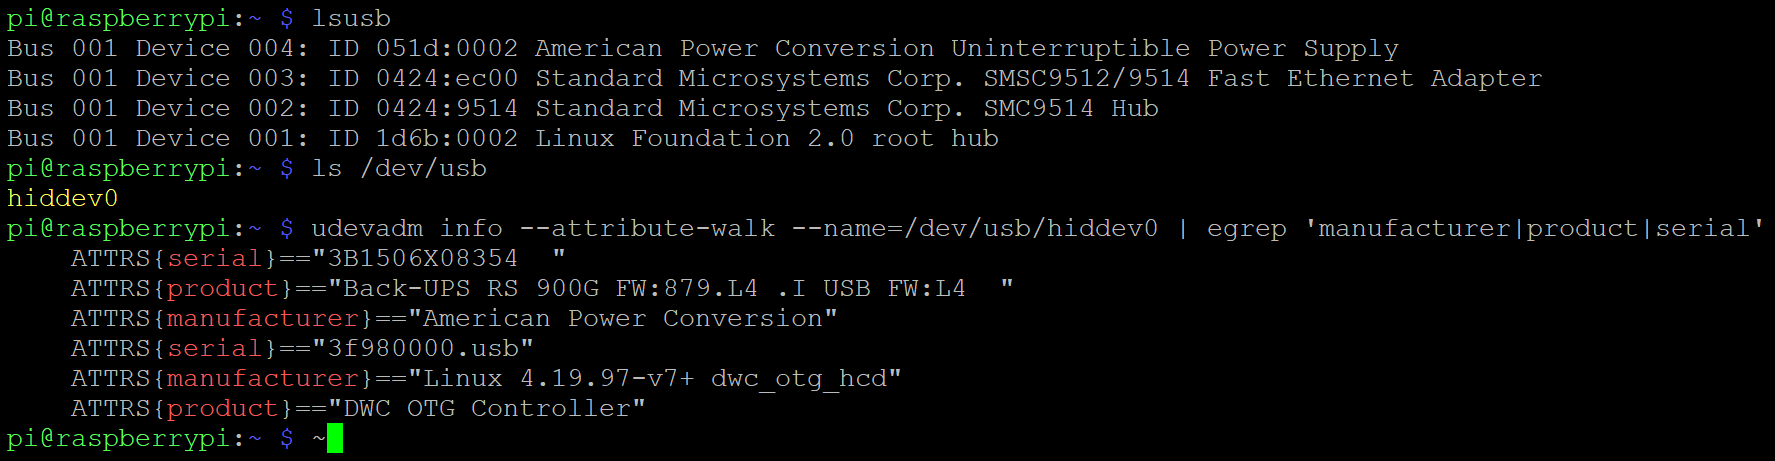
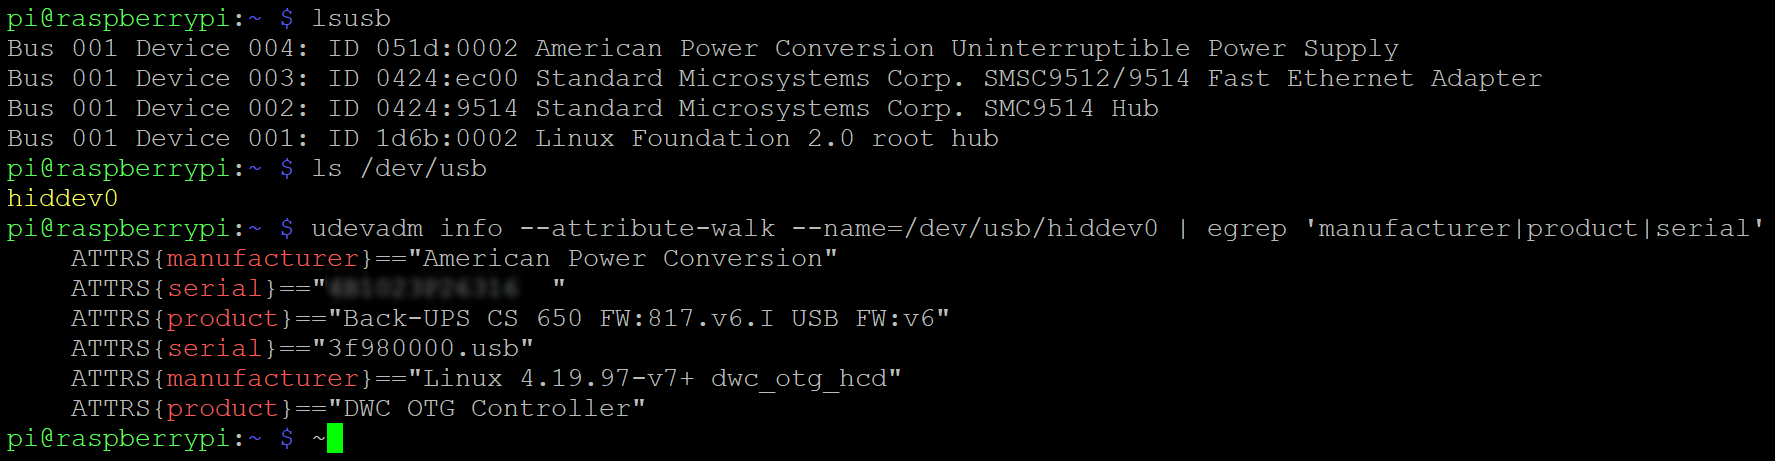
Updated the prequesites section of README.md and some screenshots

Changed region(s): [[0.093, 0.6074, 0.5268, 0.7289], [0.093, 0.5466, 0.4648, 0.577], [0.4648, 0.6074, 0.5577, 0.6377]]

diff --git a/README.md b/README.md
@@ -6,7 +6,73 @@ This repo provides the code to set up the monitoring and alerting for an APC UPS
 I have configured and tested the Node-RED flow and the Grafana dashboard with two APC UPS models, one "Back-UPS RS 900G" and an older "Back-UPS CS 650", both connected via USB to a Raspberry Pi 3 with Rasbian Buster Lite and NUT, Node-RED, InfluxDB and Grafana all locally installed.
 
 ## Prerequisites
-Here I will provide some information about the prerequisites and how to setup NUT to get things rollin'.
+Here is a quick walkthrough showing all the steps I took to setup NUT to get things rollin'. First of all, the commands…
+```sh
+lsusb
+ls /dev/usb/
+udevadm info --attribute-walk --name=/dev/usb/hiddev0 | egrep 'manufacturer|product|serial'
+```
+…will show, if your UPS is regonized. The first commands will reveal the vendor and product IDs of the UPS. In this case, the vendor ID is 051d and the product ID is 0000). The second command will show the USB device's name, in this case /dev/usb/hiddev0.
+
+![USB commands](media/usb.png)
+
+The USB device's name is needed for the third command, which also shows the serial number. With this information, there are two options to configure the UPS in /etc/nut/ups.conf (be sure to increase maxtretry from 0 to 3): 
+```sh
+(…)
+maxretry = 3
+	
+[UPS01]
+    driver = usbhid-ups
+    port = auto
+    desc = "Back-UPS CS 650"
+    vendorid = "051d"
+    productid = "0002"
+```
+or
+```sh
+(…)
+maxretry = 3
+	
+[UPS01]
+	driver = usbhid-ups
+	port = auto
+	desc = "Back-UPS CS 650"
+	serial = <your serial here>
+```
+Then start the UPS driver…
+```sh
+sudo upsdrvctl start
+```
+…which should generate an output like:
+```sh
+Network UPS Tools - UPS driver controller 2.7.4
+Network UPS Tools - Generic HID driver 0.41 (2.7.4)
+USB communication driver 0.33
+Using subdriver: APC HID 0.96
+```
+Change the last line of /etc/nut/nut.conf…
+```sh
+(…)
+MODE=netserver
+```
+…and add the following lines at the end of /etc/nut/upsd.conf :
+```sh
+(…)
+LISTEN 127.0.0.1 3493
+LISTEN <IP-address of your server> 3493
+```
+Now let's configure the NUT-Server to auto-start and then start it:
+
+```sh
+sudo systemctl enable nut-server.service
+sudo systemctl start nut-server.service
+```
+The NUT CLI should now show all available variables that your UPS exposes:
+```sh
+upsc UPS01@localhost
+```
+With this information, you are ready to proceed to Node-RED and Grafana.
+
 
 ## Node-RED flow
 For the Node-RED flow I assume, that Node-RED and InfluxDB are locally installed on the system, the USV is connected to. Provided that Node-RED is already up and running, first install the appropriate node to connect to NUT as well as unit converter and mail nodes:
